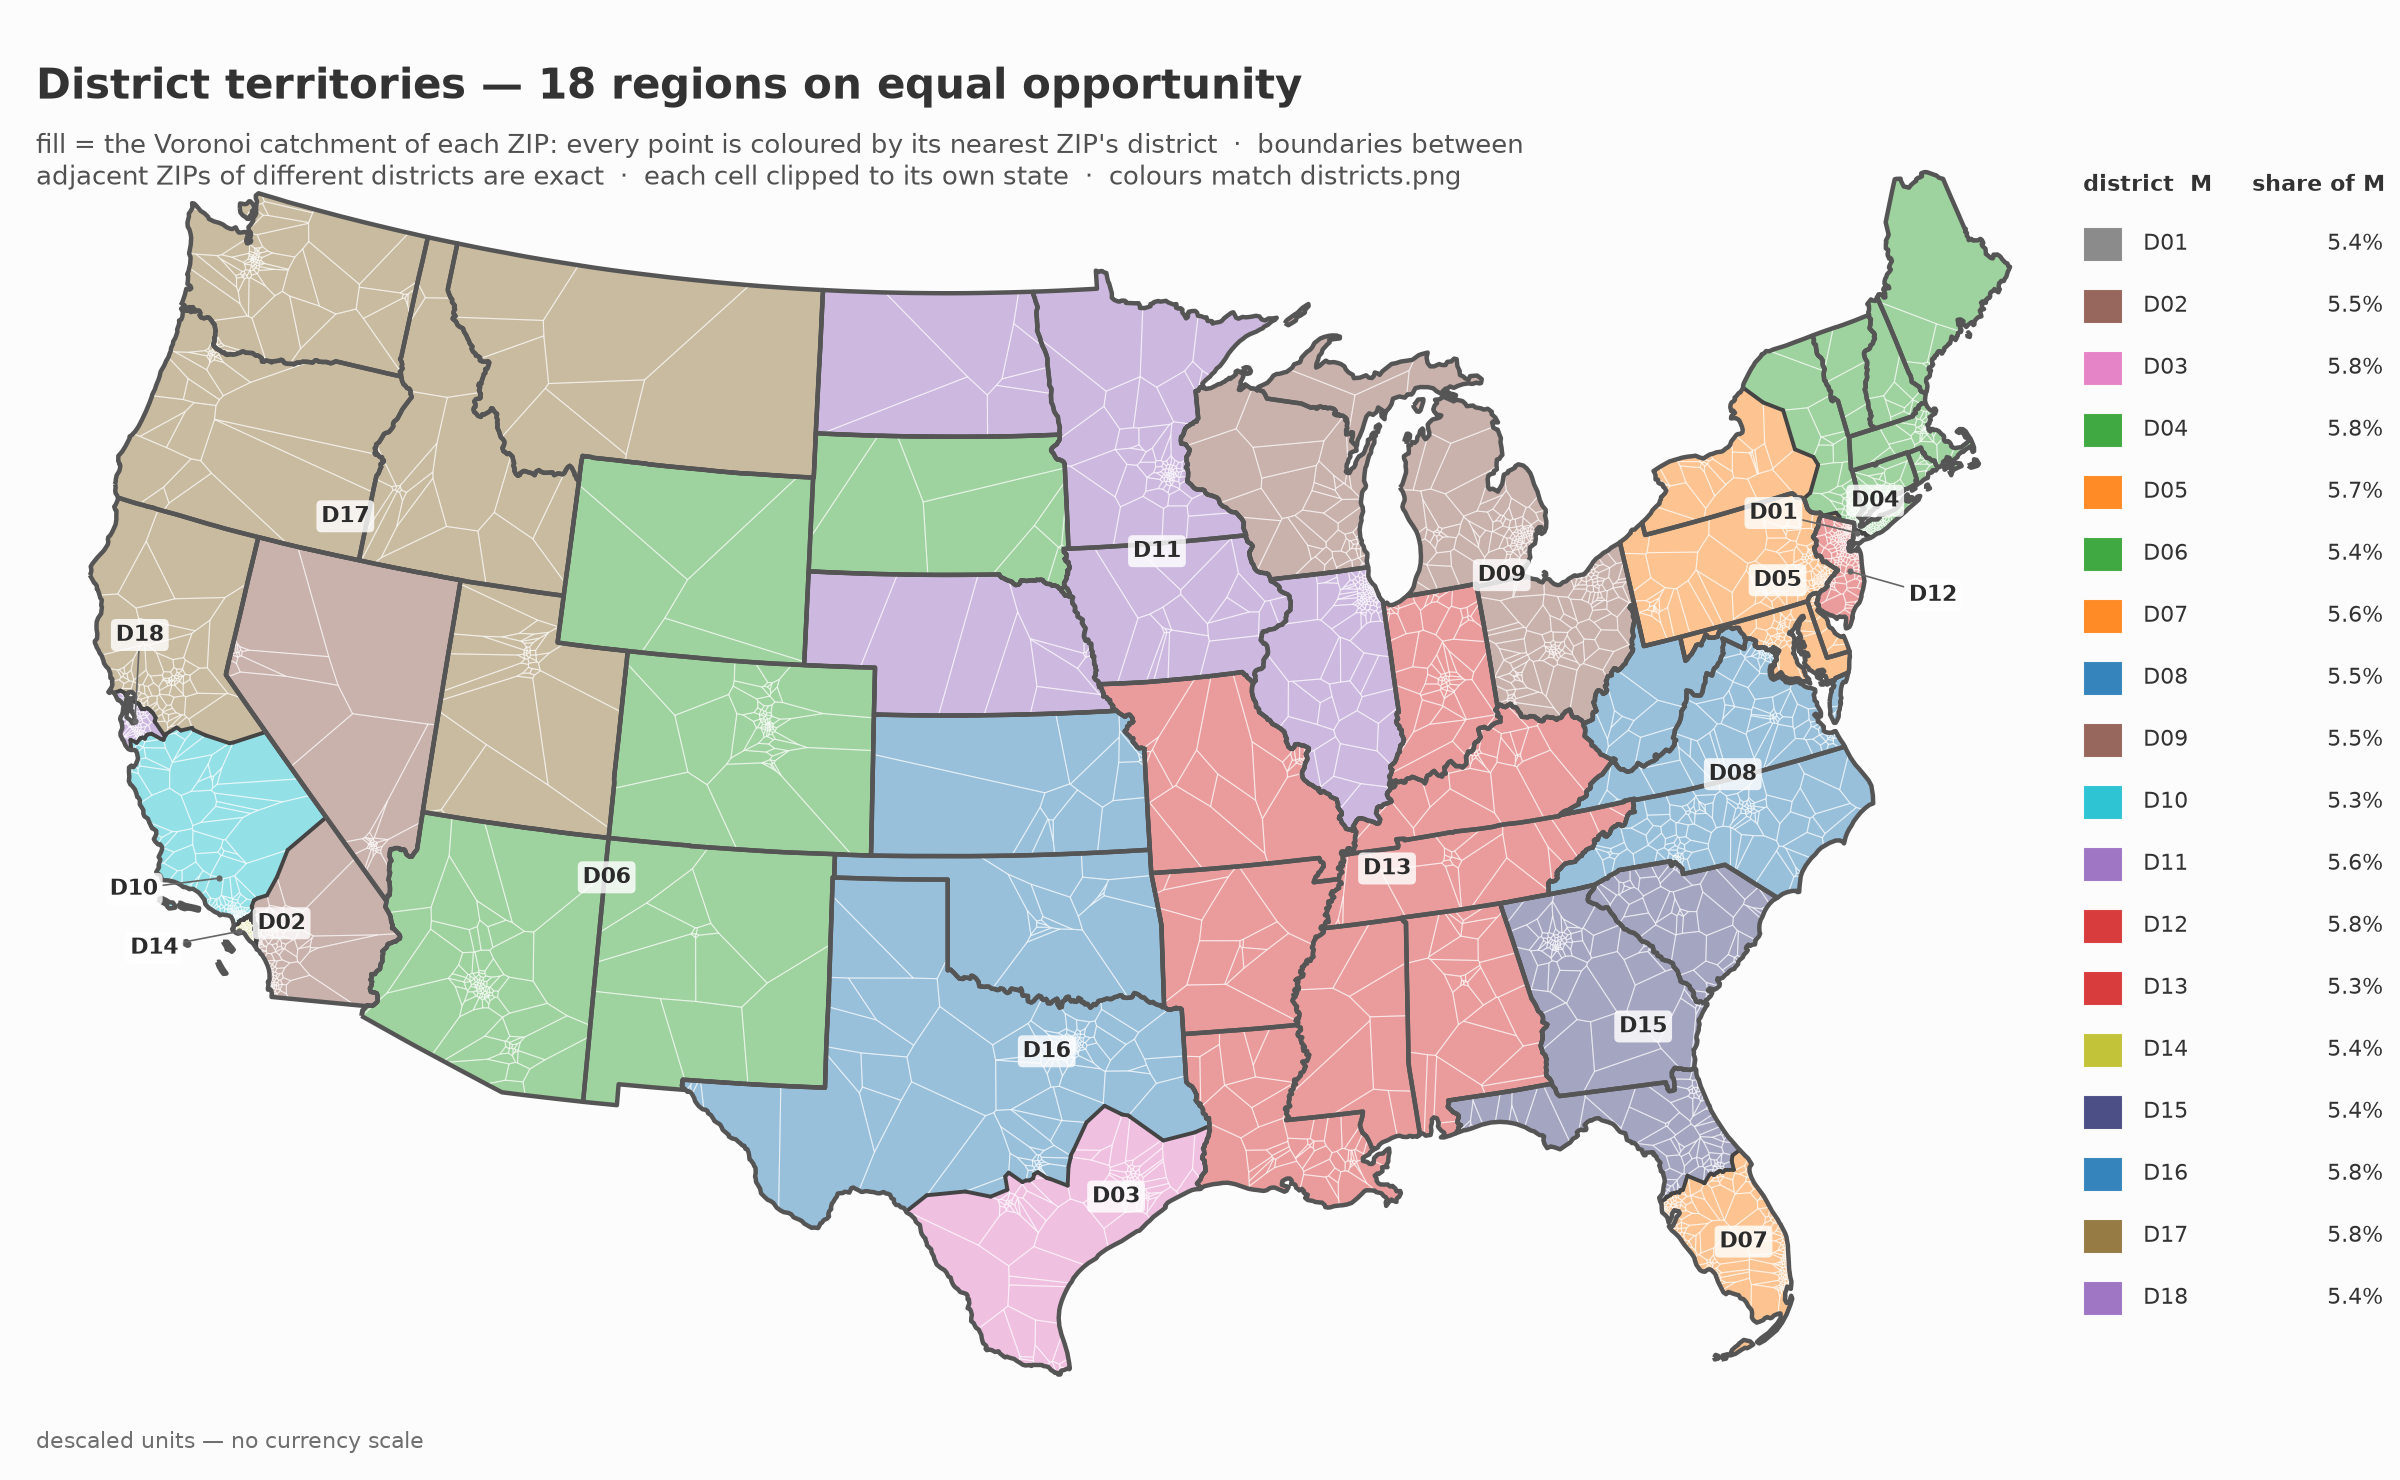
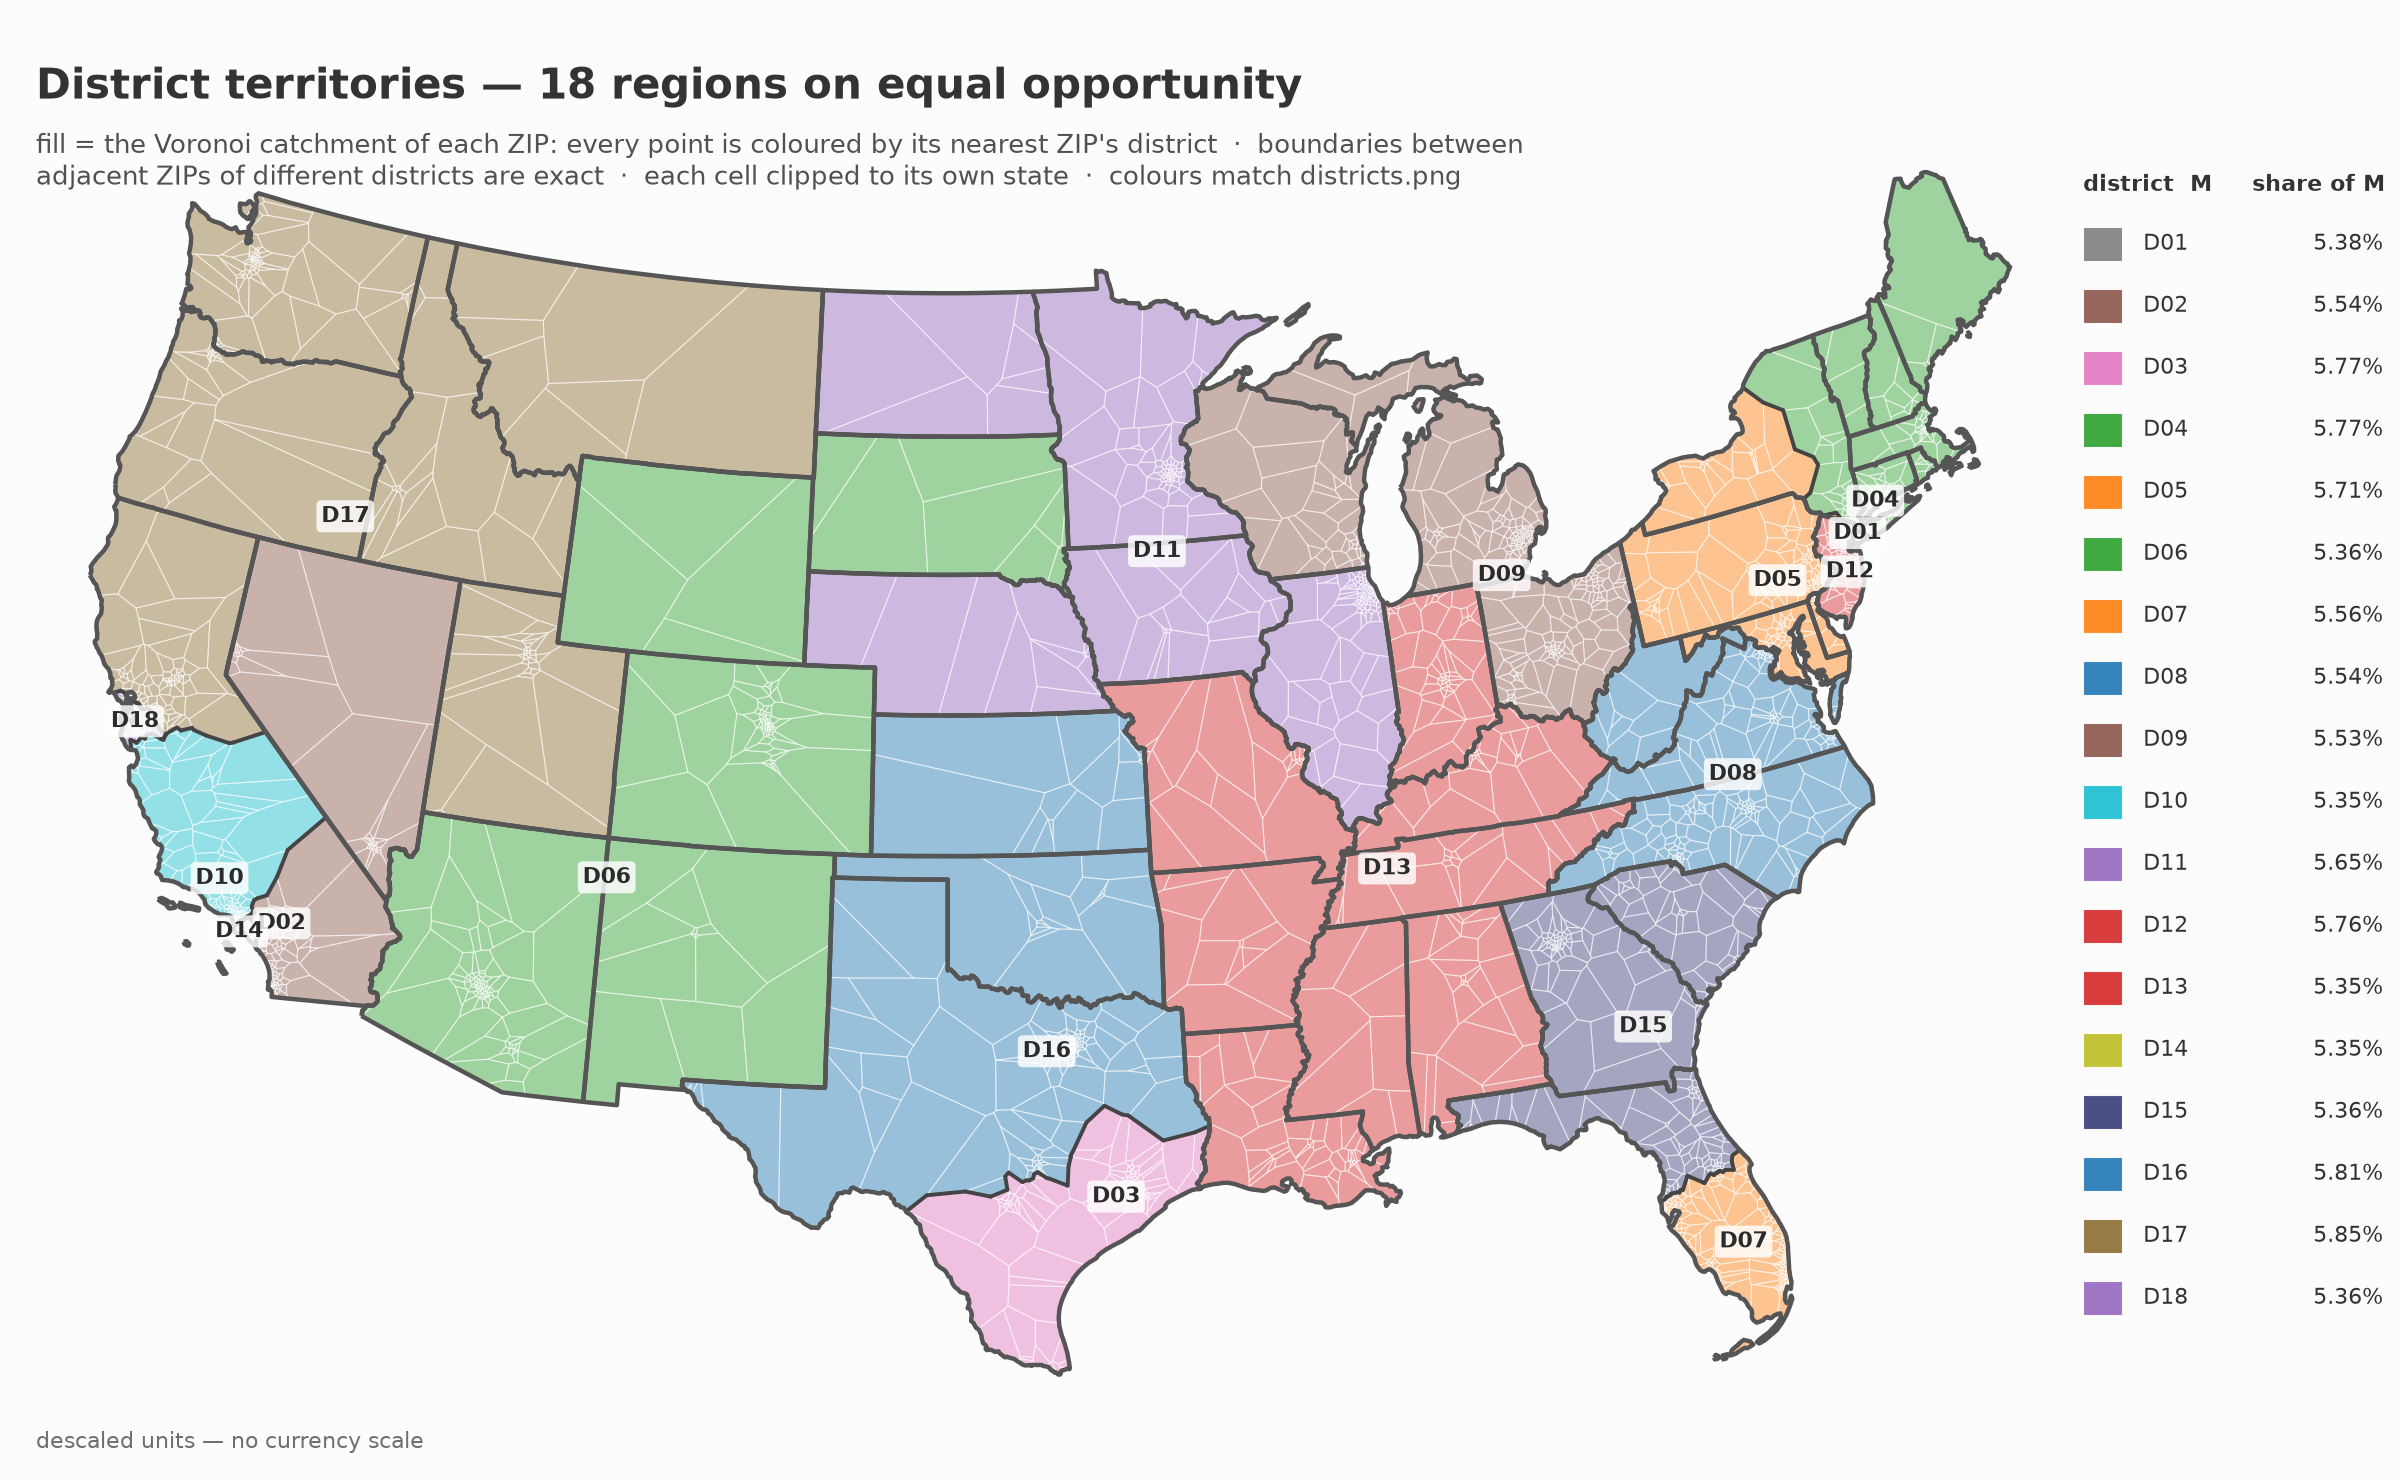
Figures: the headline map's district shares to two decimals
The district legend printed each district's share of national opportunity to one
decimal. At k = 18 an equal share is 5.56% and the whole 5% band spans 5.29% to
5.83%, so one decimal collapsed five distinct districts onto "5.8%" and hid which
one carries the most.

Two decimals separate them. The headline map now reads D17 5.85%, D16 5.81%,
D03 5.77%, D04 5.77% and D12 5.76% at the top, against D10 5.35%, D13 5.35% and
D14 5.35% at the bottom. That is the 8.98% spread the run reports, made legible
on the figure itself, and it shows D17 as the one district outside the 5% band.

The shares were cross-checked against an independent recomputation from the
instance and the shipped draw.csv: all 18 agree, and they sum to the whole.

Both headline renderings regenerated from
battery/results/borders_k18_v2_20260907/track2_anchored/d0.05/d0.05/draw.csv with
--clip-states --bold-states, the flags that produced the originals.

Claude-Session: https://claude.ai/code/session_01VusQKgqDJc4HGNV3Lieet3

diff --git a/tools/us_maps.py b/tools/us_maps.py
@@ -293,8 +293,6 @@ def figure_contestability(a_values, b_values, xy, states, out, *, firm_a="A", fi
 # plus two of tab20b's, with the two near-duplicate greys and the second olive dropped.  Hues
 # only need to be *locally* distinguishable -- see `color_districts` -- so 12 is ample for
 # k = 13 and the palette is chosen for separation at bubble size, not for a global ordering.
-# TODO(2026-09-07): D04 and SOUTHWEST share a colour and look adjacent in `SOUTHWEST_anchor`
-# (reported only, from the former STATE.md ## Next); `color_districts` should keep them apart.
 QUAL = [
     "#1f77b4",   # blue
     "#ff7f0e",   # orange
@@ -438,6 +436,10 @@ def _district_legend(fig, districts, values, colors, order, second=None, second_
     category error; and the one number a reader wants per district is its share of the whole,
     which is the balance the draw exists to deliver.
 
+    Two decimals, not one.  At k = 18 an equal share is 5.56%, and a whole 5% band spans only
+    5.29% to 5.83%, so one decimal collapses five distinct districts onto "5.8%" and hides which
+    one actually sits outside the band.
+
     `second` adds one more numeric column, `{district: share in [0, 1]}` under the header
     `second_label`.  The territory map uses it for each district's share of the *map area*,
     which is where the power diagram's whole point lands: the shares of M are all 7.7% by
@@ -466,7 +468,7 @@ def _district_legend(fig, districts, values, colors, order, second=None, second_
                                         facecolor=colors[d], edgecolor="white",
                                         linewidth=0.4, alpha=0.9))
         ax.text(0.2, y, str(d), color=TEXT, fontsize=8, va="center")
-        ax.text(x_first, y, f"{100.0 * per.get(d, 0.0) / total:.1f}%", color=TEXT, fontsize=8,
+        ax.text(x_first, y, f"{100.0 * per.get(d, 0.0) / total:.2f}%", color=TEXT, fontsize=8,
                 va="center", ha="right")
         if wide:
             v = float(second.get(d, 0.0))
@@ -535,13 +537,14 @@ def figure_districts(districts, values, xy, states, out, *, max_marker=MAX_MARKE
                linewidths=EDGE_W, edgecolors="white")
 
     if label:
-        spread = district_spread(districts, values, xy, centroids)
-        ranked = sorted((d for d in order if d in centroids),
-                        key=lambda e: (-spread.get(e, 0.0), str(e)))
-        (bx0, bx1), (by0, by1) = ax.get_xlim(), ax.get_ylim()
-        leader_labels(ax, centroids, ranked, (bx0, by0, bx1, by1), zorder=5,
-                      # a district whose bubbles are tighter than the label box is *under* it
-                      needs_leader=lambda d, hw, hh: spread.get(d, 0.0) < hw)
+        for d in order:
+            if d not in centroids:
+                continue
+            cx, cy = centroids[d]
+            ax.text(cx, cy, str(d), color=LABEL_TEXT, fontsize=8, fontweight="bold",
+                    ha="center", va="center", zorder=5,
+                    bbox=dict(boxstyle="round,pad=0.22", facecolor="white",
+                              edgecolor="none", alpha=0.82))
     _district_legend(fig, districts, values, colors, order)
     _size_legend(ax, v, float(v.max()), "M (descaled)", max_marker)
     return _save(fig, out)
@@ -561,12 +564,6 @@ BORDER = "#444444"             # district vs district: the one line a reader is 
 BORDER_W = 1.4
 STATE_W_REGIONS = 0.6          # heavier than the bubble maps: it is competing with a fill now
 LABEL_SEP = 0.035              # minimum label separation, as a fraction of the frame width
-LEADER = "#666666"             # the callout line: visible, never competing with a border
-LEADER_W = 0.6
-LEADER_PAD = 0.008             # clearance around a label box, as a fraction of the frame width
-LEADER_RADII = (0.045, 0.075, 0.110, 0.150)     # ring radii a pushed label is tried at
-LEADER_DOT = 5.0               # pt^2 marker left on the ground the leader line comes from
-LEADER_SMALL = 6.0             # a region under this many label boxes is called out, not sat on
 _LAND_CACHE: dict = {}         # id(states) -> (states, unioned geometry); see `land_union`
 
 
@@ -879,119 +876,6 @@ def label_points(order, polys, centroids, min_sep=0.0, min_part=0.15) -> dict:
     return out
 
 
-def district_spread(districts, values, xy, centroids) -> dict:
-    """`{district: r}` -- the M-weighted RMS distance of a district's zips from its own centroid.
-
-    This is the placement order `leader_labels` wants, and value is the wrong measure for it:
-    at k = 18 every district holds about the same M, so ranking by M says nothing about which
-    label is in trouble.  The labels that collide are the tight metro districts, and spread is
-    exactly what separates them -- a district covering half the west keeps its centroid, and
-    the one that fits inside Los Angeles is the one that moves.
-    """
-    out = {}
-    for d, c in centroids.items():
-        num = den = 0.0
-        for z, dd in districts.items():
-            if dd != d or z not in xy:
-                continue
-            w = max(float(values.get(z, 0.0)), 0.0)
-            num += w * ((xy[z][0] - c[0]) ** 2 + (xy[z][1] - c[1]) ** 2)
-            den += w
-        out[d] = float(np.sqrt(num / den)) if den > 0 else 0.0
-    return out
-
-
-def _label_halfsize(ax, sample="D00", fontsize=8) -> tuple:
-    """Half-width and half-height of a label box in data units, measured rather than guessed.
-
-    A guessed box size is wrong the first time the figure size or the DPI changes, and the
-    failure is silent: labels either overlap again or scatter further than they need to.  One
-    probe text through the real renderer costs a draw and is exact.
-    """
-    t = ax.text(0, 0, sample, fontsize=fontsize, fontweight="bold", ha="center", va="center")
-    ax.figure.canvas.draw()
-    bb = t.get_window_extent(renderer=ax.figure.canvas.get_renderer())
-    bb = bb.transformed(ax.transData.inverted())
-    t.remove()
-    return bb.width / 2.0, bb.height / 2.0
-
-
-def leader_labels(ax, anchors, ranked, bounds, *, needs_leader=None, fontsize=8,
-                  zorder=6) -> dict:
-    """Direct labels, with a leader line for any label that cannot sit on its own ground.
-
-    A label is drawn at its anchor whenever the box is clear of every box already placed.
-    Where districts pile into one metro -- five of the eighteen at k = 18 are in southern
-    California, four more around New York -- the later ones are pushed outward along rings of
-    increasing radius until a slot is free, and a line is drawn back to the anchor with a dot
-    on it.  Sitting on top of each other is what the labels did before: `D14` and `D02` printed
-    as one smear over Los Angeles, and the reader could not tell which small district was which.
-
-    A label that has moved is unreadable without the line, and a label that has not moved gains
-    nothing from one, so the decoration is drawn only in the first case.
-
-    Collision is not the only reason to move.  A district smaller than its own label is hidden
-    by it -- the label prints over the ground it names and the reader sees a white box where
-    the territory should be.  `needs_leader(district, half_width, half_height)` is asked about
-    every district before the anchor is offered, and a `True` sends the label off the ground
-    with a line back to it, whether or not the anchor was free.  The box size is measured, not
-    assumed, so the caller can only answer that question once the figure is being drawn --
-    which is why this is a callback and not a set.
-
-    `ranked` is the placement order and carries the whole policy: earlier districts keep their
-    anchor, so pass the large or spread-out ones first (`district_spread` for the bubble map,
-    largest-part area for the filled one).  `bounds` is `(x0, y0, x1, y1)` of the frame; no box
-    is placed outside it.  Returns `{district: (x, y)}` of the boxes actually drawn.
-    """
-    x0, y0, x1, y1 = bounds
-    span = x1 - x0
-    hw, hh = _label_halfsize(ax, fontsize=fontsize)
-    pad = LEADER_PAD * span
-    cx, cy = 0.5 * (x0 + x1), 0.5 * (y0 + y1)
-    box = dict(boxstyle="round,pad=0.22", facecolor="white", edgecolor="none", alpha=0.82)
-
-    def rect(p):
-        return (p[0] - hw - pad, p[1] - hh - pad, p[0] + hw + pad, p[1] + hh + pad)
-
-    def free(r, placed):
-        if r[0] < x0 or r[2] > x1 or r[1] < y0 or r[3] > y1:
-            return False
-        return all(r[0] > q[2] or r[2] < q[0] or r[1] > q[3] or r[3] < q[1] for q in placed)
-
-    placed, out = [], {}
-    for d in ranked:
-        a = anchors.get(d)
-        if a is None:
-            continue
-        base = float(np.arctan2(a[1] - cy, a[0] - cx))     # outward, away from the map's middle
-        must = bool(needs_leader(d, hw, hh)) if needs_leader is not None else False
-        cands = [] if must else [a]
-        for r in LEADER_RADII:
-            for i in range(12):                            # ±30° steps either side of outward
-                th = base + (1 if i % 2 else -1) * ((i + 1) // 2) * (np.pi / 6.0)
-                cands.append((a[0] + r * span * float(np.cos(th)),
-                              a[1] + r * span * float(np.sin(th))))
-        pick = next((i for i, p in enumerate(cands) if free(rect(p), placed)), None)
-        if pick is None:                                   # nothing is free: take the roomiest
-            pick = max(range(len(cands)),
-                       key=lambda i: min((max(abs(cands[i][0] - 0.5 * (q[0] + q[2])),
-                                              abs(cands[i][1] - 0.5 * (q[1] + q[3])))
-                                          for q in placed), default=float("inf")))
-        p = cands[pick]
-        if not must and pick == 0:
-            ax.text(p[0], p[1], str(d), color=LABEL_TEXT, fontsize=fontsize, fontweight="bold",
-                    ha="center", va="center", zorder=zorder, bbox=box)
-        else:
-            ax.annotate(str(d), xy=a, xytext=p, color=LABEL_TEXT, fontsize=fontsize,
-                        fontweight="bold", ha="center", va="center", zorder=zorder, bbox=box,
-                        arrowprops=dict(arrowstyle="-", color=LEADER, linewidth=LEADER_W,
-                                        shrinkA=0.0, shrinkB=1.0))
-            ax.scatter([a[0]], [a[1]], s=LEADER_DOT, c=LEADER, linewidths=0, zorder=zorder)
-        placed.append(rect(p))
-        out[d] = (float(p[0]), float(p[1]))
-    return out
-
-
 def figure_district_regions(districts, values, xy, states, out, *, alpha=REGION_ALPHA,
                             footer=FOOTER, title=None, subtitle=None, n_near=4,
                             palette=QUAL, label=True, pad=0.05, report=None,
@@ -1081,15 +965,12 @@ def figure_district_regions(districts, values, xy, states, out, *, alpha=REGION_
         states.boundary.plot(ax=ax, color=state_color, linewidth=state_w, zorder=4)
 
     if label:                                                  # 5. labels
-        anchors = label_points(order, polys, centroids, LABEL_SEP * (x1 - x0))
-        ranked = sorted(anchors, key=lambda d: (-_largest_part(polys[d]).area, str(d)))
-        # A region only a few label-boxes in size is covered by its own label -- New Jersey and
-        # the Bay Area sliver disappear under the word naming them.  Tested against the largest
-        # part rather than the anchor's surroundings: a big district whose label lands near its
-        # own border is legible where it is and needs no callout.
-        leader_labels(ax, anchors, ranked, (x0, y0, x1, y1),
-                      needs_leader=lambda d, hw, hh:
-                          _largest_part(polys[d]).area < LEADER_SMALL * (4.0 * hw * hh))
+        for d, (lx, ly) in label_points(order, polys, centroids,
+                                        LABEL_SEP * (x1 - x0)).items():
+            ax.text(lx, ly, str(d), color=LABEL_TEXT, fontsize=8, fontweight="bold",
+                    ha="center", va="center", zorder=6,
+                    bbox=dict(boxstyle="round,pad=0.22", facecolor="white",
+                              edgecolor="none", alpha=0.82))
     _district_legend(fig, districts, values, colors, order)
     mx, my = 0.02 * (x1 - x0), 0.02 * (y1 - y0)
     ax.set_xlim(x0 - mx, x1 + mx)
